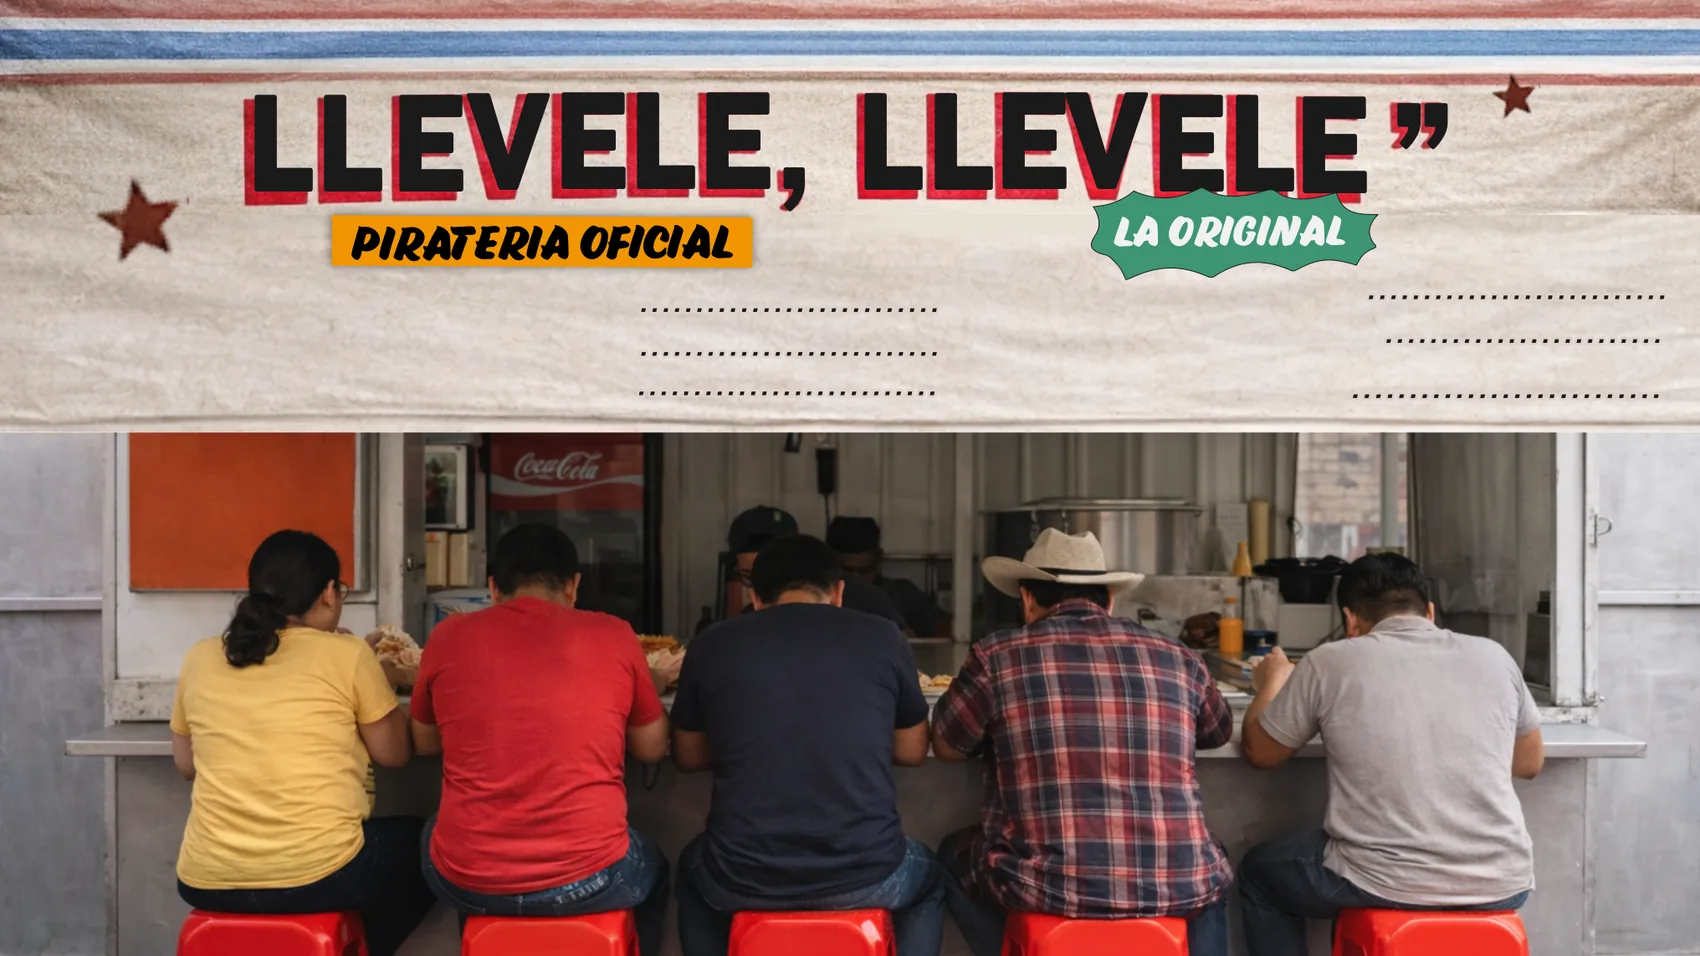
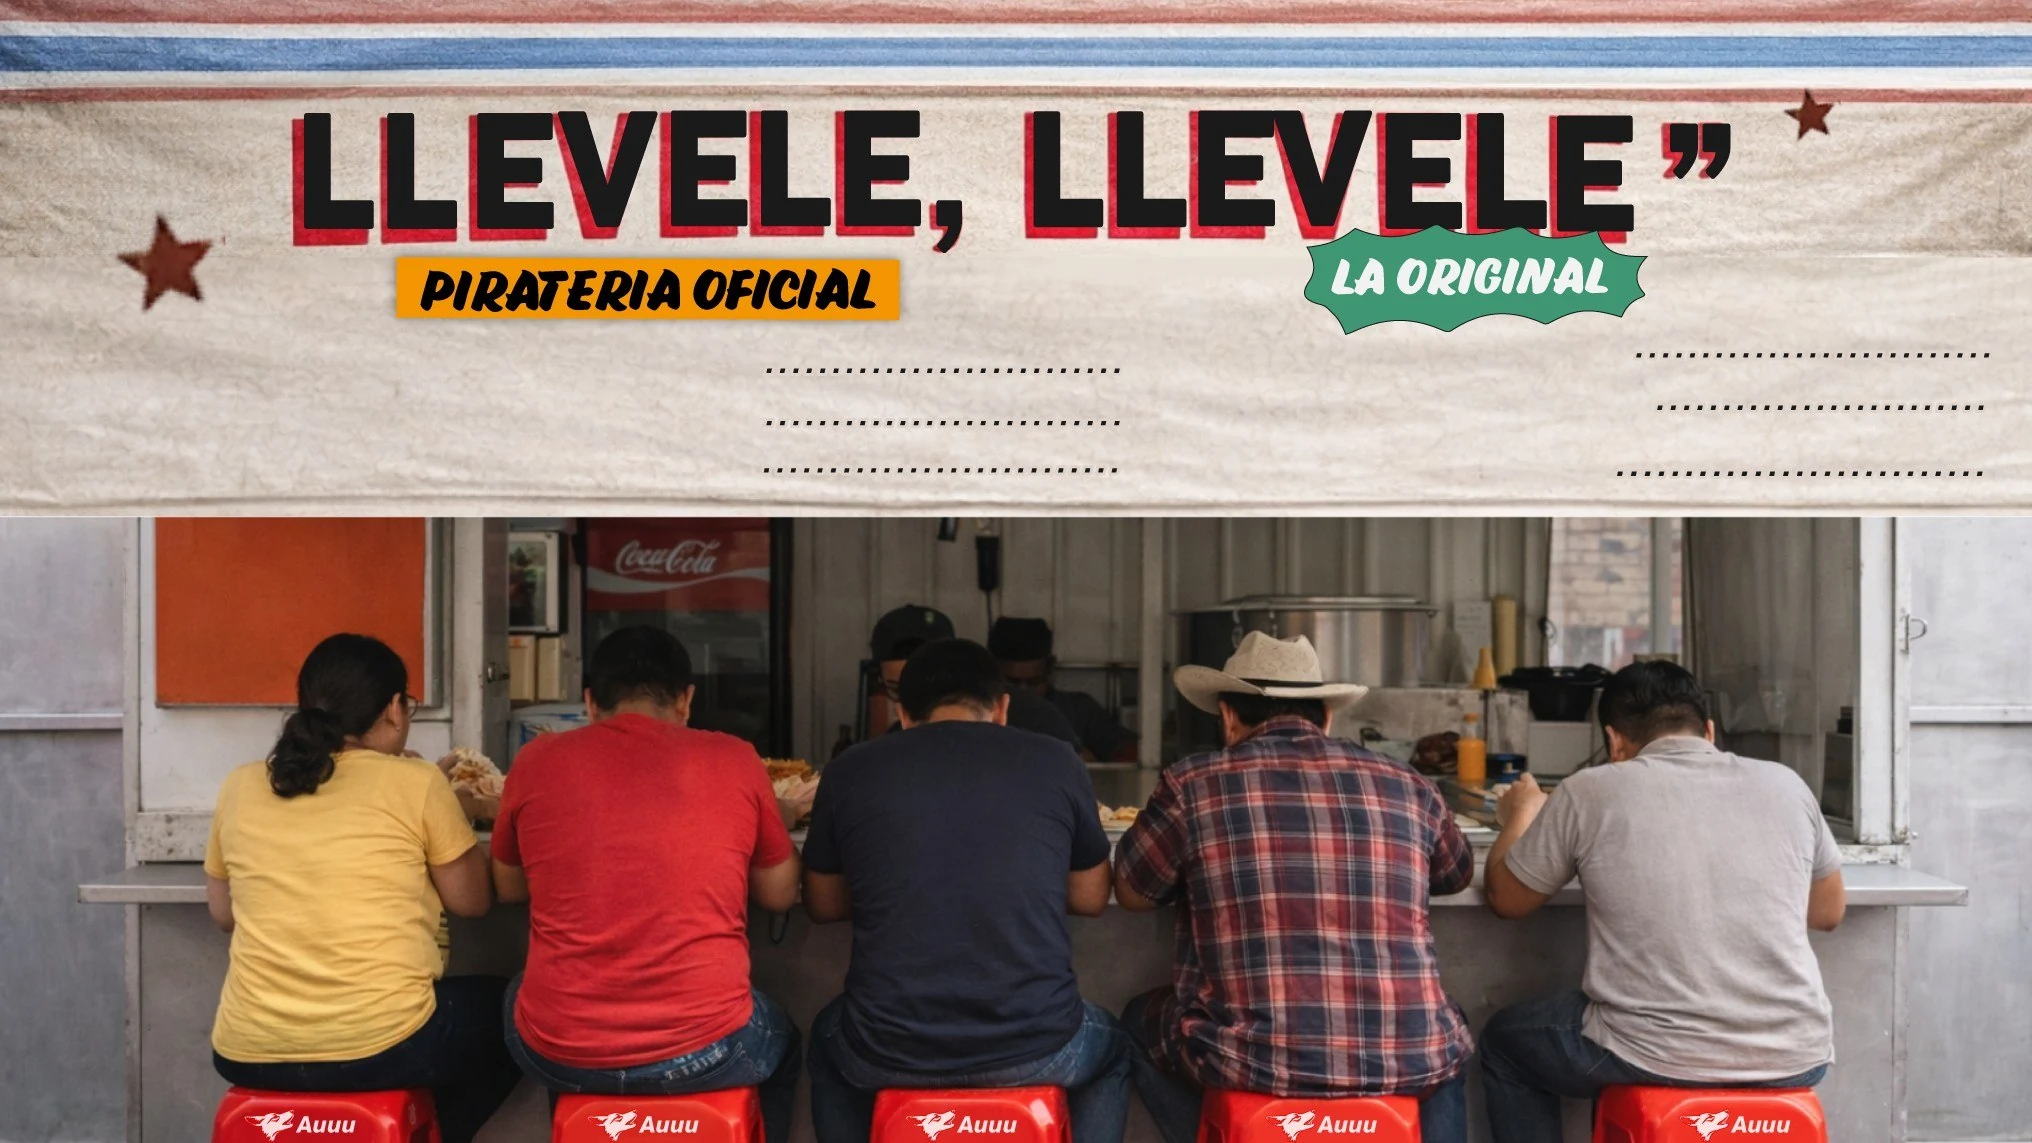
compu: portada cover (no deformar) + quitar flecha galeria CON LA RAZA + nuevo fondo MERCH

diff --git a/preview/compu/index.html b/preview/compu/index.html
@@ -101,7 +101,7 @@
   .galeria-strip img.gp{height:22vw;max-height:400px;width:auto;flex:0 0 auto;display:block;cursor:pointer;background:#fff;box-shadow:0 12px 28px rgba(0,0,0,.55);scroll-snap-align:center;transition:filter .2s ease,box-shadow .2s ease}
   .galeria-strip img.gp:hover{filter:brightness(1.06);box-shadow:0 16px 36px rgba(0,0,0,.7)}
   .gp.b1{border:11px solid #fff}.gp.b2{border:10px solid #15110f}.gp.b3{border:10px solid #e23b2e}.gp.b4{border:11px solid #ffd84a}.gp.b5{border:10px solid #1f8a3b}.gp.b6{border:9px solid #fff;outline:5px solid #00abab}
-  .galeria-hint{position:absolute;right:18px;top:50%;transform:translateY(-50%);display:flex;align-items:center;gap:1px;background:rgba(0,0,0,.35);padding:4px 14px;border-radius:20px;pointer-events:none;transition:opacity .4s ease;z-index:3}
+  .galeria-hint{display:none}
   .galeria-hint .ghint-arrow{color:rgba(255,255,255,.92);font-family:'Poppins',sans-serif;font-weight:700;font-size:26px;line-height:1;text-shadow:0 2px 5px rgba(0,0,0,.6);animation:ghint-slide 1.3s ease-in-out infinite}
   .galeria-hint .ghint-arrow:nth-child(2){animation-delay:.15s}
   .galeria-hint .ghint-arrow:nth-child(3){animation-delay:.3s}
@@ -138,7 +138,7 @@
   .dtrack.mq-off{animation-play-state:paused}
 
   /* === Portada (cortina) === */
-  .portada{position:fixed;inset:0;z-index:100;overflow:hidden;background:#2dbf86 url('../sitio/assets/compu/portada-curtain-clean.webp?v=5') center center/100% 100% no-repeat;
+  .portada{position:fixed;inset:0;z-index:100;overflow:hidden;background:#2dbf86 url('../sitio/assets/compu/portada-curtain-clean.webp?v=5') center center/cover no-repeat;
     transition:transform 1.6s cubic-bezier(.65,0,.35,1);will-change:transform}
   .portada.subida{transform:translateY(-100%)}
   .portada-logo{position:absolute;left:50%;top:44%;transform:translate(-50%,-50%);width:min(84%,1720px);max-height:64vh;object-fit:contain;height:auto;display:block;filter:drop-shadow(0 6px 12px rgba(0,0,0,.28))}
@@ -318,7 +318,7 @@
   <button class="lightbox-nav lightbox-next" id="lb-next" aria-label="Siguiente">&#8250;</button>
 </div>
 <div class="dmarquee" role="img" aria-label="La Merch"><div class="dtrack"><img src="../sitio/assets/compu/divtext-merch.png?v=10" alt="La Merch"><img src="../sitio/assets/compu/divtext-merch.png?v=10" alt="" aria-hidden="true"></div></div>
-<section class="dsec reveal" id="sec-merch"><img class="bg" src="../sitio/assets/compu/bg-merch.webp?v=8" alt="merch" loading="lazy" decoding="async"><div class="ovl"><div class="ct" style="left:80.47%;top:26.40%;font-size:2.46cqw;color:#1a1a1a;font-family:'swiss-721-bt',sans-serif;font-weight:700;">...........................</div>
+<section class="dsec reveal" id="sec-merch"><img class="bg" src="../sitio/assets/compu/bg-merch.webp?v=9" alt="merch" loading="lazy" decoding="async"><div class="ovl"><div class="ct" style="left:80.47%;top:26.40%;font-size:2.46cqw;color:#1a1a1a;font-family:'swiss-721-bt',sans-serif;font-weight:700;">...........................</div>
 <div class="ct" style="left:81.51%;top:30.98%;font-size:2.46cqw;color:#1a1a1a;font-family:'swiss-721-bt',sans-serif;font-weight:700;">.........................</div>
 <div class="ct" style="left:79.53%;top:36.75%;font-size:2.50cqw;color:#1a1a1a;font-family:'swiss-721-bt',sans-serif;font-weight:700;">...........................</div>
 <div class="ct" style="left:37.67%;top:27.74%;font-size:2.46cqw;color:#1a1a1a;font-family:'swiss-721-bt',sans-serif;font-weight:700;">...........................</div>
